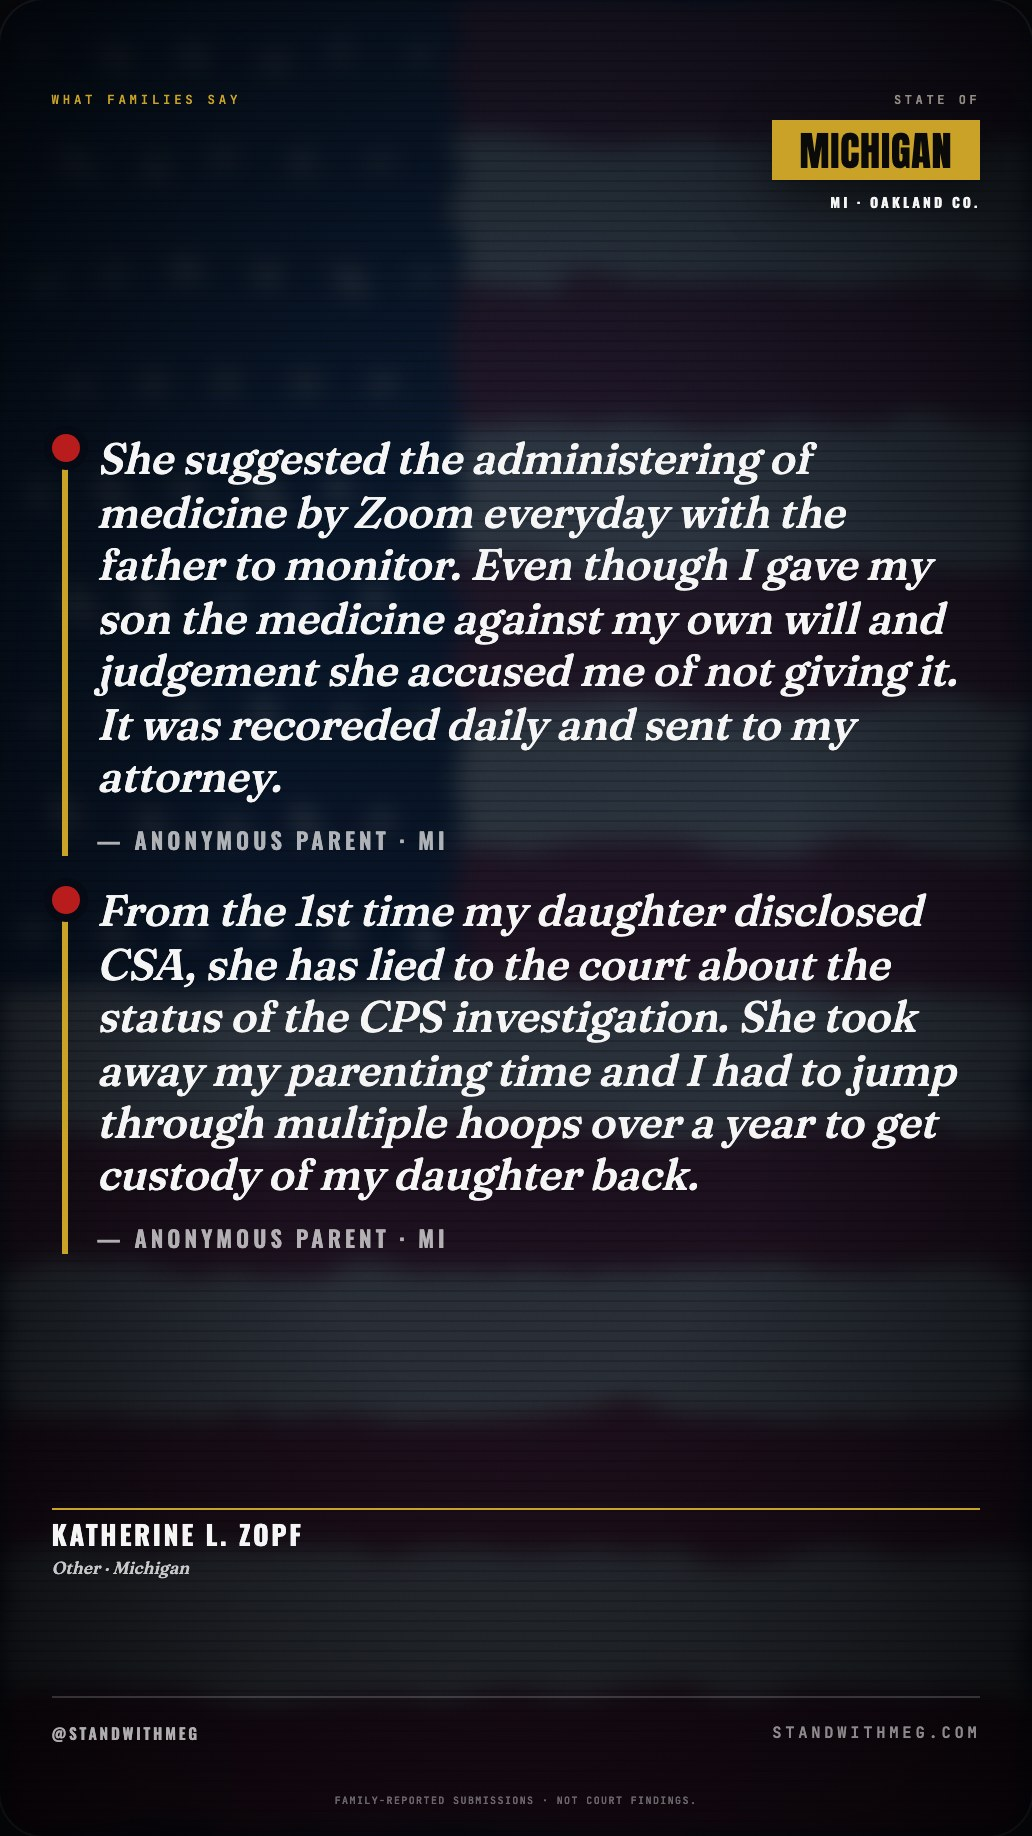
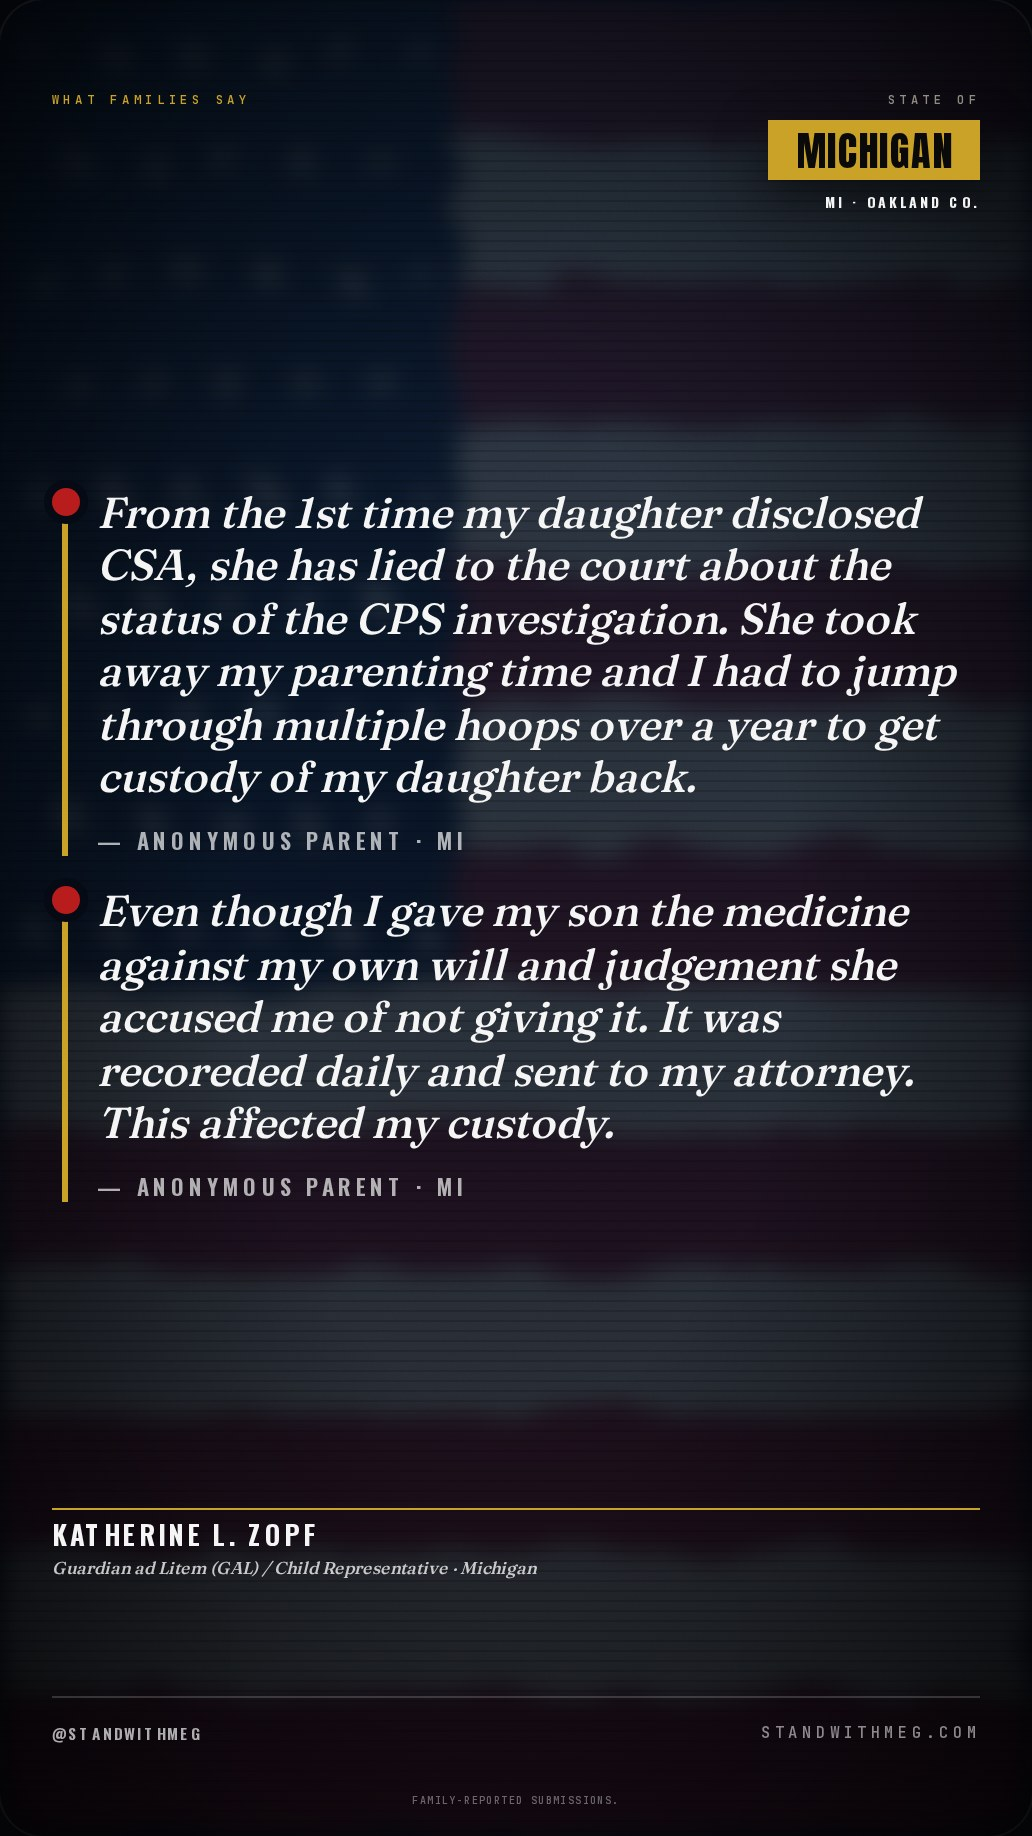
chore: auto-regenerate 13 report/share file(s) from live Supabase data

diff --git a/public/court-actors/mi/katherine_l_zopf/share.html b/public/court-actors/mi/katherine_l_zopf/share.html
@@ -548,7 +548,7 @@ html,body { background:#06070A; color:var(--white); font-family:Inter,system-ui,
 <main class="share-scroll">
 <section class="phone-frame">
 <article class="frame frame-image" id="frame-01">
-  <img class="frame-img" src="frame-01.jpg" alt="Katherine L. Zopf share slide 1 of 7">
+  <img class="frame-img" src="frame-01.jpg?v=c43003abe2" alt="Katherine L. Zopf share slide 1 of 7">
 </article>
 
 <div class="frame-actions" aria-label="Frame 1 actions">
@@ -558,7 +558,7 @@ html,body { background:#06070A; color:var(--white); font-family:Inter,system-ui,
 </section>
 <section class="phone-frame">
 <article class="frame frame-image" id="frame-02">
-  <img class="frame-img" src="frame-02.jpg" alt="Katherine L. Zopf share slide 2 of 7">
+  <img class="frame-img" src="frame-02.jpg?v=68ae3d1cc2" alt="Katherine L. Zopf share slide 2 of 7">
 </article>
 
 <div class="frame-actions" aria-label="Frame 2 actions">
@@ -568,7 +568,7 @@ html,body { background:#06070A; color:var(--white); font-family:Inter,system-ui,
 </section>
 <section class="phone-frame">
 <article class="frame frame-image" id="frame-03">
-  <img class="frame-img" src="frame-03.jpg" alt="Katherine L. Zopf share slide 3 of 7">
+  <img class="frame-img" src="frame-03.jpg?v=69fc6455fe" alt="Katherine L. Zopf share slide 3 of 7">
 </article>
 
 <div class="frame-actions" aria-label="Frame 3 actions">
@@ -578,7 +578,7 @@ html,body { background:#06070A; color:var(--white); font-family:Inter,system-ui,
 </section>
 <section class="phone-frame">
 <article class="frame frame-image" id="frame-04">
-  <img class="frame-img" src="frame-04.jpg" alt="Katherine L. Zopf share slide 4 of 7">
+  <img class="frame-img" src="frame-04.jpg?v=c45bbca864" alt="Katherine L. Zopf share slide 4 of 7">
 </article>
 
 <div class="frame-actions" aria-label="Frame 4 actions">
@@ -588,7 +588,7 @@ html,body { background:#06070A; color:var(--white); font-family:Inter,system-ui,
 </section>
 <section class="phone-frame">
 <article class="frame frame-image" id="frame-05">
-  <img class="frame-img" src="frame-05.jpg" alt="Katherine L. Zopf share slide 5 of 7">
+  <img class="frame-img" src="frame-05.jpg?v=0d2343a0fc" alt="Katherine L. Zopf share slide 5 of 7">
 </article>
 
 <div class="frame-actions" aria-label="Frame 5 actions">
@@ -598,7 +598,7 @@ html,body { background:#06070A; color:var(--white); font-family:Inter,system-ui,
 </section>
 <section class="phone-frame">
 <article class="frame frame-image" id="frame-06">
-  <img class="frame-img" src="frame-06.jpg" alt="Katherine L. Zopf share slide 6 of 7">
+  <img class="frame-img" src="frame-06.jpg?v=cc6fb26822" alt="Katherine L. Zopf share slide 6 of 7">
 </article>
 
 <div class="frame-actions" aria-label="Frame 6 actions">
@@ -608,7 +608,7 @@ html,body { background:#06070A; color:var(--white); font-family:Inter,system-ui,
 </section>
 <section class="phone-frame">
 <article class="frame frame-image" id="frame-07">
-  <img class="frame-img" src="frame-07.jpg" alt="Katherine L. Zopf share slide 7 of 7">
+  <img class="frame-img" src="frame-07.jpg?v=50df0cccf3" alt="Katherine L. Zopf share slide 7 of 7">
 </article>
 
 <div class="frame-actions" aria-label="Frame 7 actions">
@@ -665,10 +665,10 @@ html,body { background:#06070A; color:var(--white); font-family:Inter,system-ui,
   <div class="frame-tag">COURT ACTOR · EXPOSED</div>
   <div class="f1-headline">
     <div class="display xl">KATHERINE L.<br><span class="gold">ZOPF</span></div>
-    <div class="f1-role">Other</div>
+    <div class="f1-role">Guardian ad Litem (GAL) / Child Representative</div>
     <div class="f1-report-count">
       <b>3</b>
-      <span>families named this person on the public record</span>
+      <span>survey submissions named this person on the public record</span>
     </div>
     <div class="f1-state-count"><b>176</b> MI families in the Registry</div>
   </div>
@@ -678,7 +678,7 @@ html,body { background:#06070A; color:var(--white); font-family:Inter,system-ui,
   <div class="mf-url">STANDWITHMEG.COM</div>
 </div>
 
-  <div class="legal">Family-reported submissions · not court findings.</div>
+  <div class="legal">Family-reported submissions.</div>
 </article>
 
 
@@ -725,12 +725,12 @@ html,body { background:#06070A; color:var(--white); font-family:Inter,system-ui,
 
   <div class="frame-tag">WHAT FAMILIES SAY</div>
   <div class="f4-body f4-count-2">
-    <div class="f4-quote"><span class="f4-dot"></span><p class="f4-text">She suggested the administering of medicine by Zoom everyday with the father to monitor. Even though I gave my son the medicine against my own will and judgement she accused me of not giving it. It was recoreded daily and sent to my attorney.</p><p class="f4-attr">— Anonymous parent · MI</p></div><div class="f4-quote"><span class="f4-dot"></span><p class="f4-text">From the 1st time my daughter disclosed CSA, she has lied to the court about the status of the CPS investigation. She took away my parenting time and I had to jump through multiple hoops over a year to get custody of my daughter back.</p><p class="f4-attr">— Anonymous parent · MI</p></div>
+    <div class="f4-quote"><span class="f4-dot"></span><p class="f4-text">From the 1st time my daughter disclosed CSA, she has lied to the court about the status of the CPS investigation. She took away my parenting time and I had to jump through multiple hoops over a year to get custody of my daughter back.</p><p class="f4-attr">— Anonymous parent · MI</p></div><div class="f4-quote"><span class="f4-dot"></span><p class="f4-text">Even though I gave my son the medicine against my own will and judgement she accused me of not giving it. It was recoreded daily and sent to my attorney. This affected my custody.</p><p class="f4-attr">— Anonymous parent · MI</p></div>
   </div>
 
 <div class="actor-id-strip">
   <div class="aid-name">KATHERINE L. ZOPF</div>
-  <div class="aid-role">Other · Michigan</div>
+  <div class="aid-role">Guardian ad Litem (GAL) / Child Representative · Michigan</div>
 </div>
 
 
@@ -739,7 +739,7 @@ html,body { background:#06070A; color:var(--white); font-family:Inter,system-ui,
   <div class="mf-url">STANDWITHMEG.COM</div>
 </div>
 
-  <div class="legal">Family-reported submissions · not court findings.</div>
+  <div class="legal">Family-reported submissions.</div>
 </article>
 
 
@@ -798,7 +798,7 @@ html,body { background:#06070A; color:var(--white); font-family:Inter,system-ui,
       <div class="f6-hero-l">FAMILIES IN<br>THE REGISTRY</div>
     </div>
     <div class="stat-row">
-      <span class="stat-n">$95,250</span>
+      <span class="stat-n">$97,500</span>
       <span class="stat-l">MEDIAN FAMILY BURDEN</span>
     </div>
     <div class="stat-row">
@@ -816,7 +816,7 @@ html,body { background:#06070A; color:var(--white); font-family:Inter,system-ui,
   <div class="mf-url">STANDWITHMEG.COM</div>
 </div>
 
-  <div class="legal">Family-reported submissions · not court findings.</div>
+  <div class="legal">Family-reported submissions.</div>
 </article>
 
 
@@ -868,7 +868,7 @@ html,body { background:#06070A; color:var(--white); font-family:Inter,system-ui,
 
   <div class="frame-tag">COUNTED · PUBLIC RECORD</div>
   <div class="f5-stack">
-    <div class="f5-mega-number">5,364</div>
+    <div class="f5-mega-number">5,368</div>
     <div class="f5-mega-label">FAMILIES<br>NATIONWIDE</div>
     <div class="f5-italic">— and now global.</div>
     <div class="f5-pattern">
@@ -879,7 +879,7 @@ html,body { background:#06070A; color:var(--white); font-family:Inter,system-ui,
 
 <div class="actor-id-strip">
   <div class="aid-name">KATHERINE L. ZOPF</div>
-  <div class="aid-role">Other · Michigan</div>
+  <div class="aid-role">Guardian ad Litem (GAL) / Child Representative · Michigan</div>
 </div>
 
 
@@ -888,7 +888,7 @@ html,body { background:#06070A; color:var(--white); font-family:Inter,system-ui,
   <div class="mf-url">STANDWITHMEG.COM</div>
 </div>
 
-  <div class="legal">Family-reported submissions · not court findings.</div>
+  <div class="legal">Family-reported submissions.</div>
 </article>
 
 
@@ -946,7 +946,7 @@ html,body { background:#06070A; color:var(--white); font-family:Inter,system-ui,
 
 <div class="actor-id-strip">
   <div class="aid-name">KATHERINE L. ZOPF</div>
-  <div class="aid-role">Other · Michigan</div>
+  <div class="aid-role">Guardian ad Litem (GAL) / Child Representative · Michigan</div>
 </div>
 
 
@@ -955,7 +955,7 @@ html,body { background:#06070A; color:var(--white); font-family:Inter,system-ui,
   <div class="mf-url">STANDWITHMEG.COM</div>
 </div>
 
-  <div class="legal">Family-reported submissions · not court findings.</div>
+  <div class="legal">Family-reported submissions.</div>
 </article>
 
 
@@ -1007,7 +1007,7 @@ html,body { background:#06070A; color:var(--white); font-family:Inter,system-ui,
     <span class="gold">MEG.</span>
   </div>
   <div class="f7-cta-text">
-    Join over <b class="f7-count">5,364</b><br>
+    Join over <b class="f7-count">5,368</b><br>
     families nationwide &amp; global<br>
     exposing the truth.
   </div>
@@ -1015,7 +1015,7 @@ html,body { background:#06070A; color:var(--white); font-family:Inter,system-ui,
     <div class="f7-visit">VISIT</div>
     <div class="url-pill"><span class="dot"></span>STANDWITHMEG.COM</div>
   </div>
-  <div class="legal f7-legal">FAMILY-REPORTED · NOT COURT FINDINGS</div>
+  <div class="legal f7-legal">FAMILY-REPORTED SUBMISSIONS.</div>
 </article>
 
 </div>
@@ -1024,7 +1024,7 @@ html,body { background:#06070A; color:var(--white); font-family:Inter,system-ui,
   <details>
     <summary>Audit notes</summary>
     <p>Spec source: <code>New Final Post and Capcut template/export/katherine_l_zopf</code></p>
-    <ul><li>pdf_public_actor: helper missing at /Users/meghannmiller/Code/court-actor-posts/scripts/pdf/public_actor_for_share.py</li></ul>
+    <ul><li>family_reports: no submission_ids on actor</li><li>public_comments: no merged comments or raw notes available</li></ul>
   </details>
 </aside>
 <script>
@@ -1135,7 +1135,7 @@ document.addEventListener('click', (event) => {
 // download or pass to Web Share API.
 // ============================================================
 const FRAME_IDS = ["frame-01", "frame-02", "frame-03", "frame-04", "frame-05", "frame-06", "frame-07"];
-const FILE_BASENAME = "Zopf_Other";
+const FILE_BASENAME = "Zopf_Guardian_ad_Litem_GAL_Child_Representative";
 
 function frameFileName(id) {
   const index = FRAME_IDS.indexOf(id);
